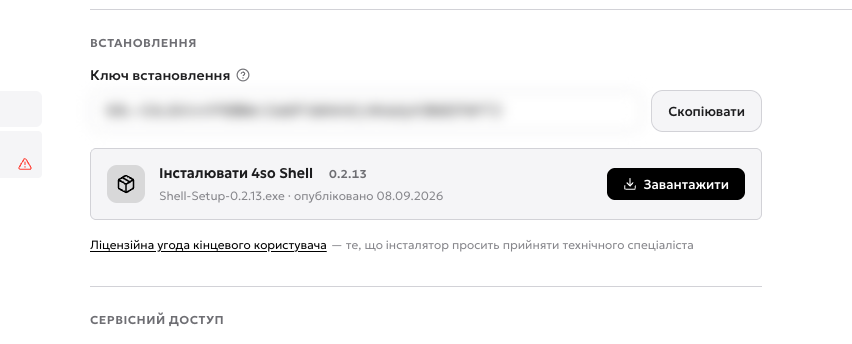
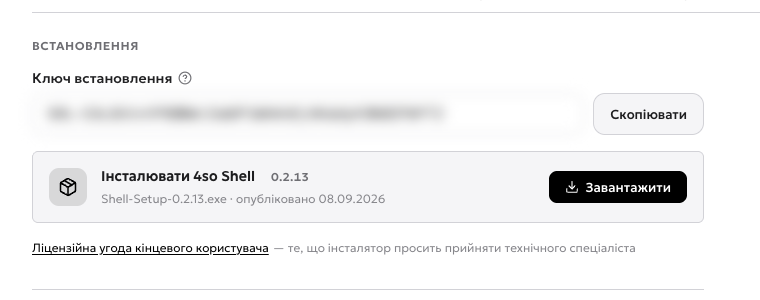
Розділ 1: у «Наступний розділ» лишились тільки наявні розділи
Прибрані пункти «Команда» і «Каса й бар» — таких розділів ще немає.

diff --git a/instruction-01-club-setup.html b/instruction-01-club-setup.html
@@ -491,8 +491,6 @@
       <ol>
         <li><b>Зони й пристрої</b> — розбити зал на зони (Стандарт, VIP, PlayStation) і додати комп’ютери.</li>
         <li><b>Тарифи</b> — погодинні на день і ніч, вихідні, абонементи. Тут же покриття доби для режиму 24/7.</li>
-        <li><b>Команда</b> — запросити адміністраторів і касирів поштою, налаштувати ролі та права.</li>
-        <li><b>Каса й бар</b> — товари, комбо-набори, продажі й зміни.</li>
       </ol>
     </section>
   </main>
